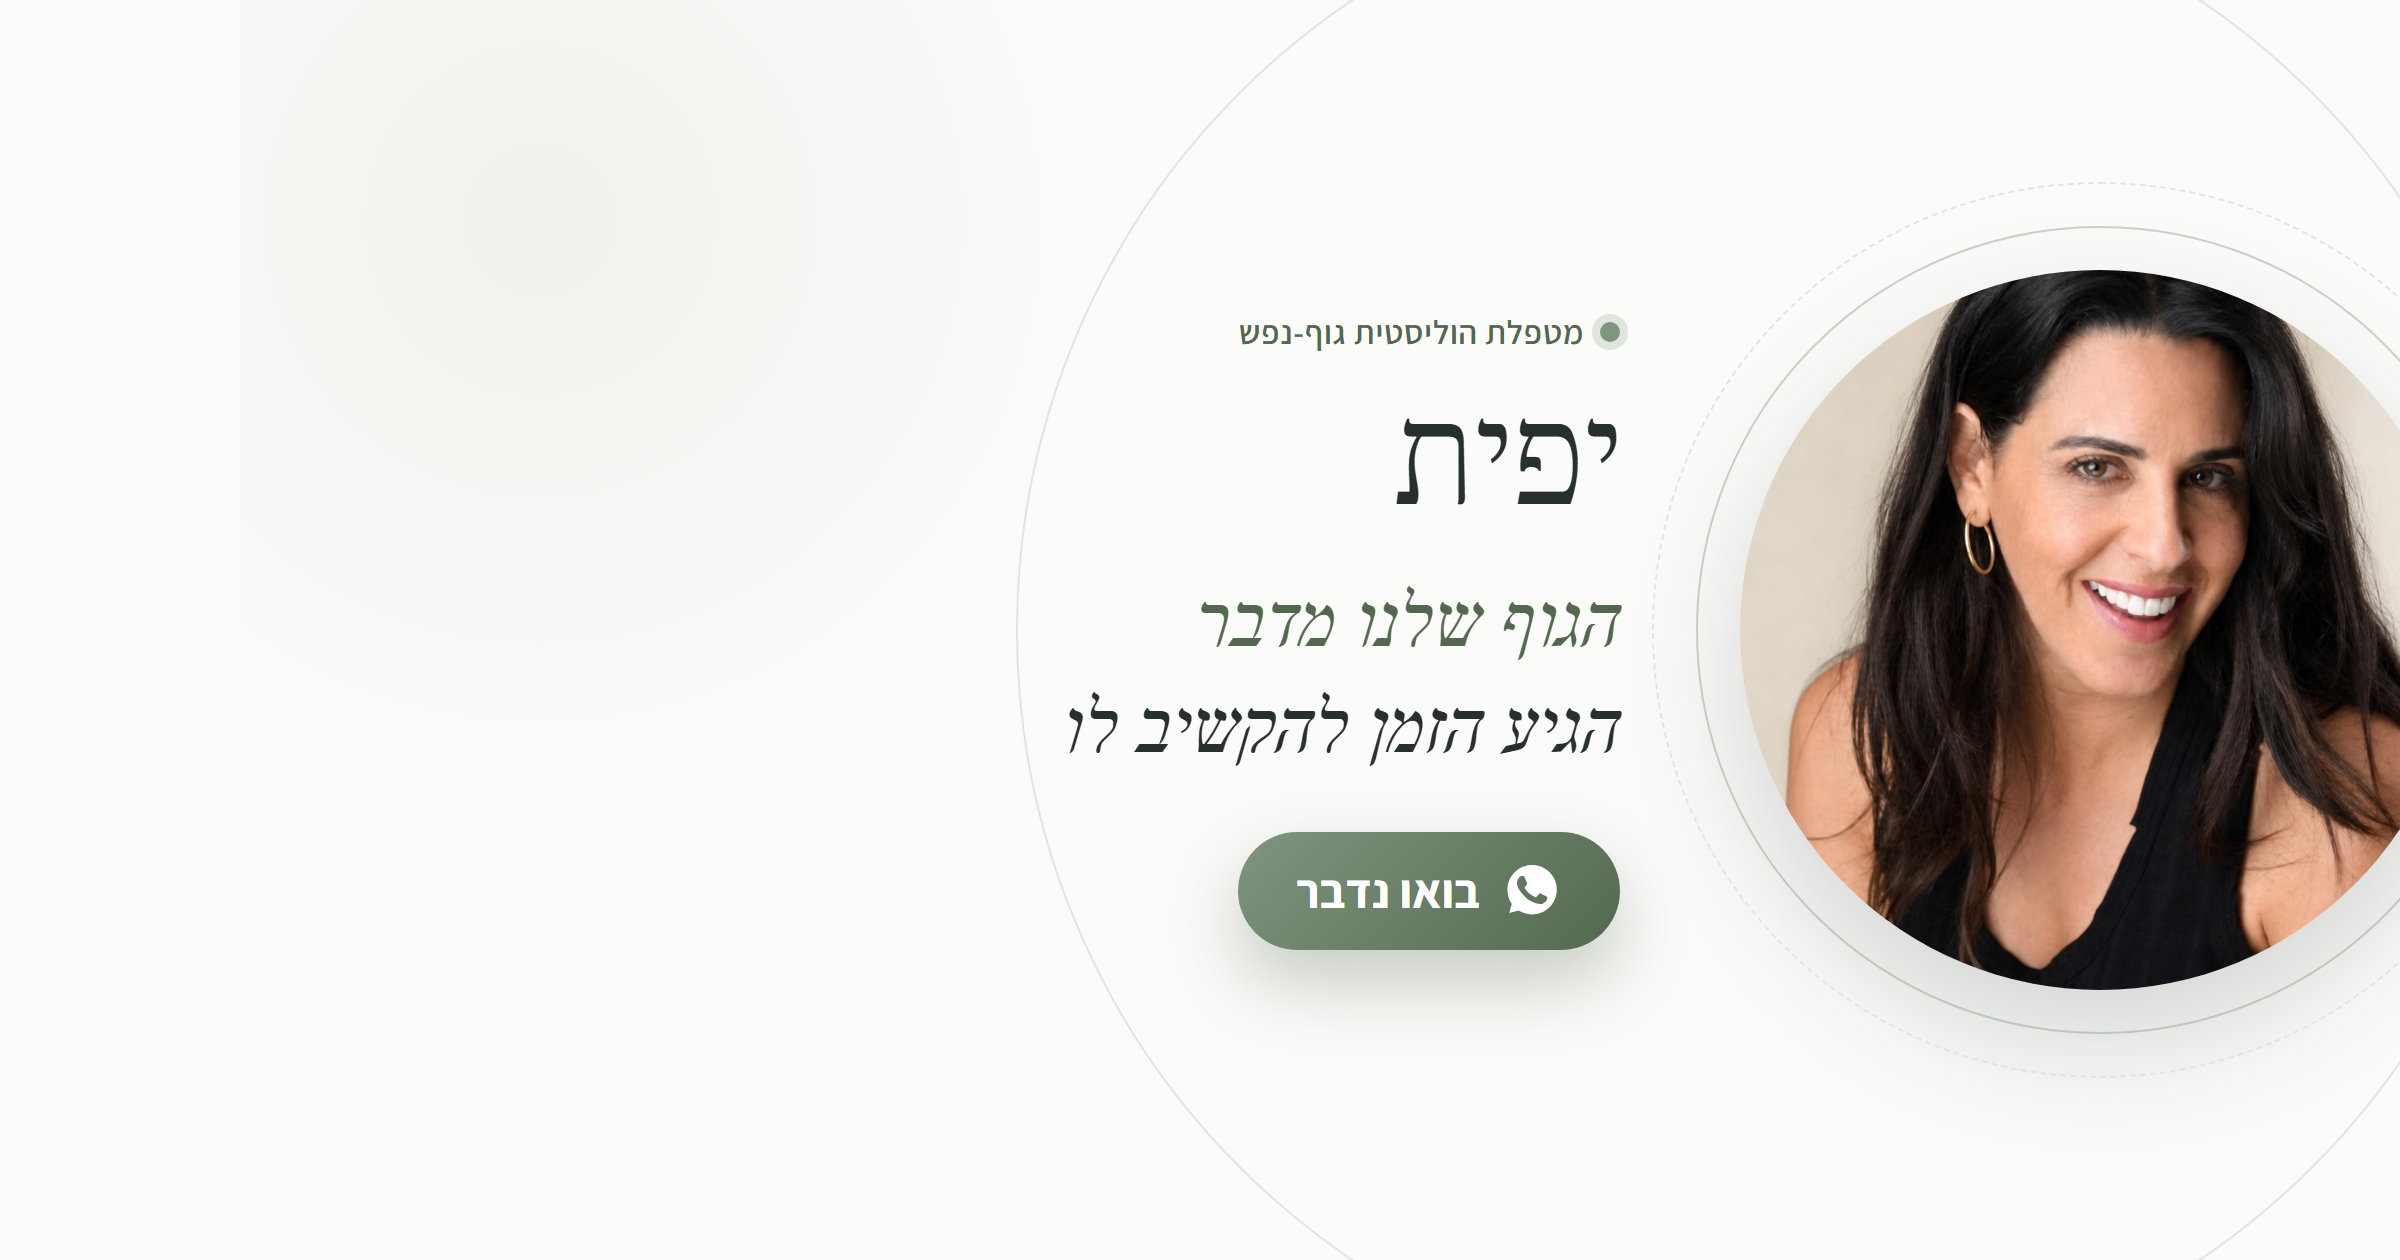
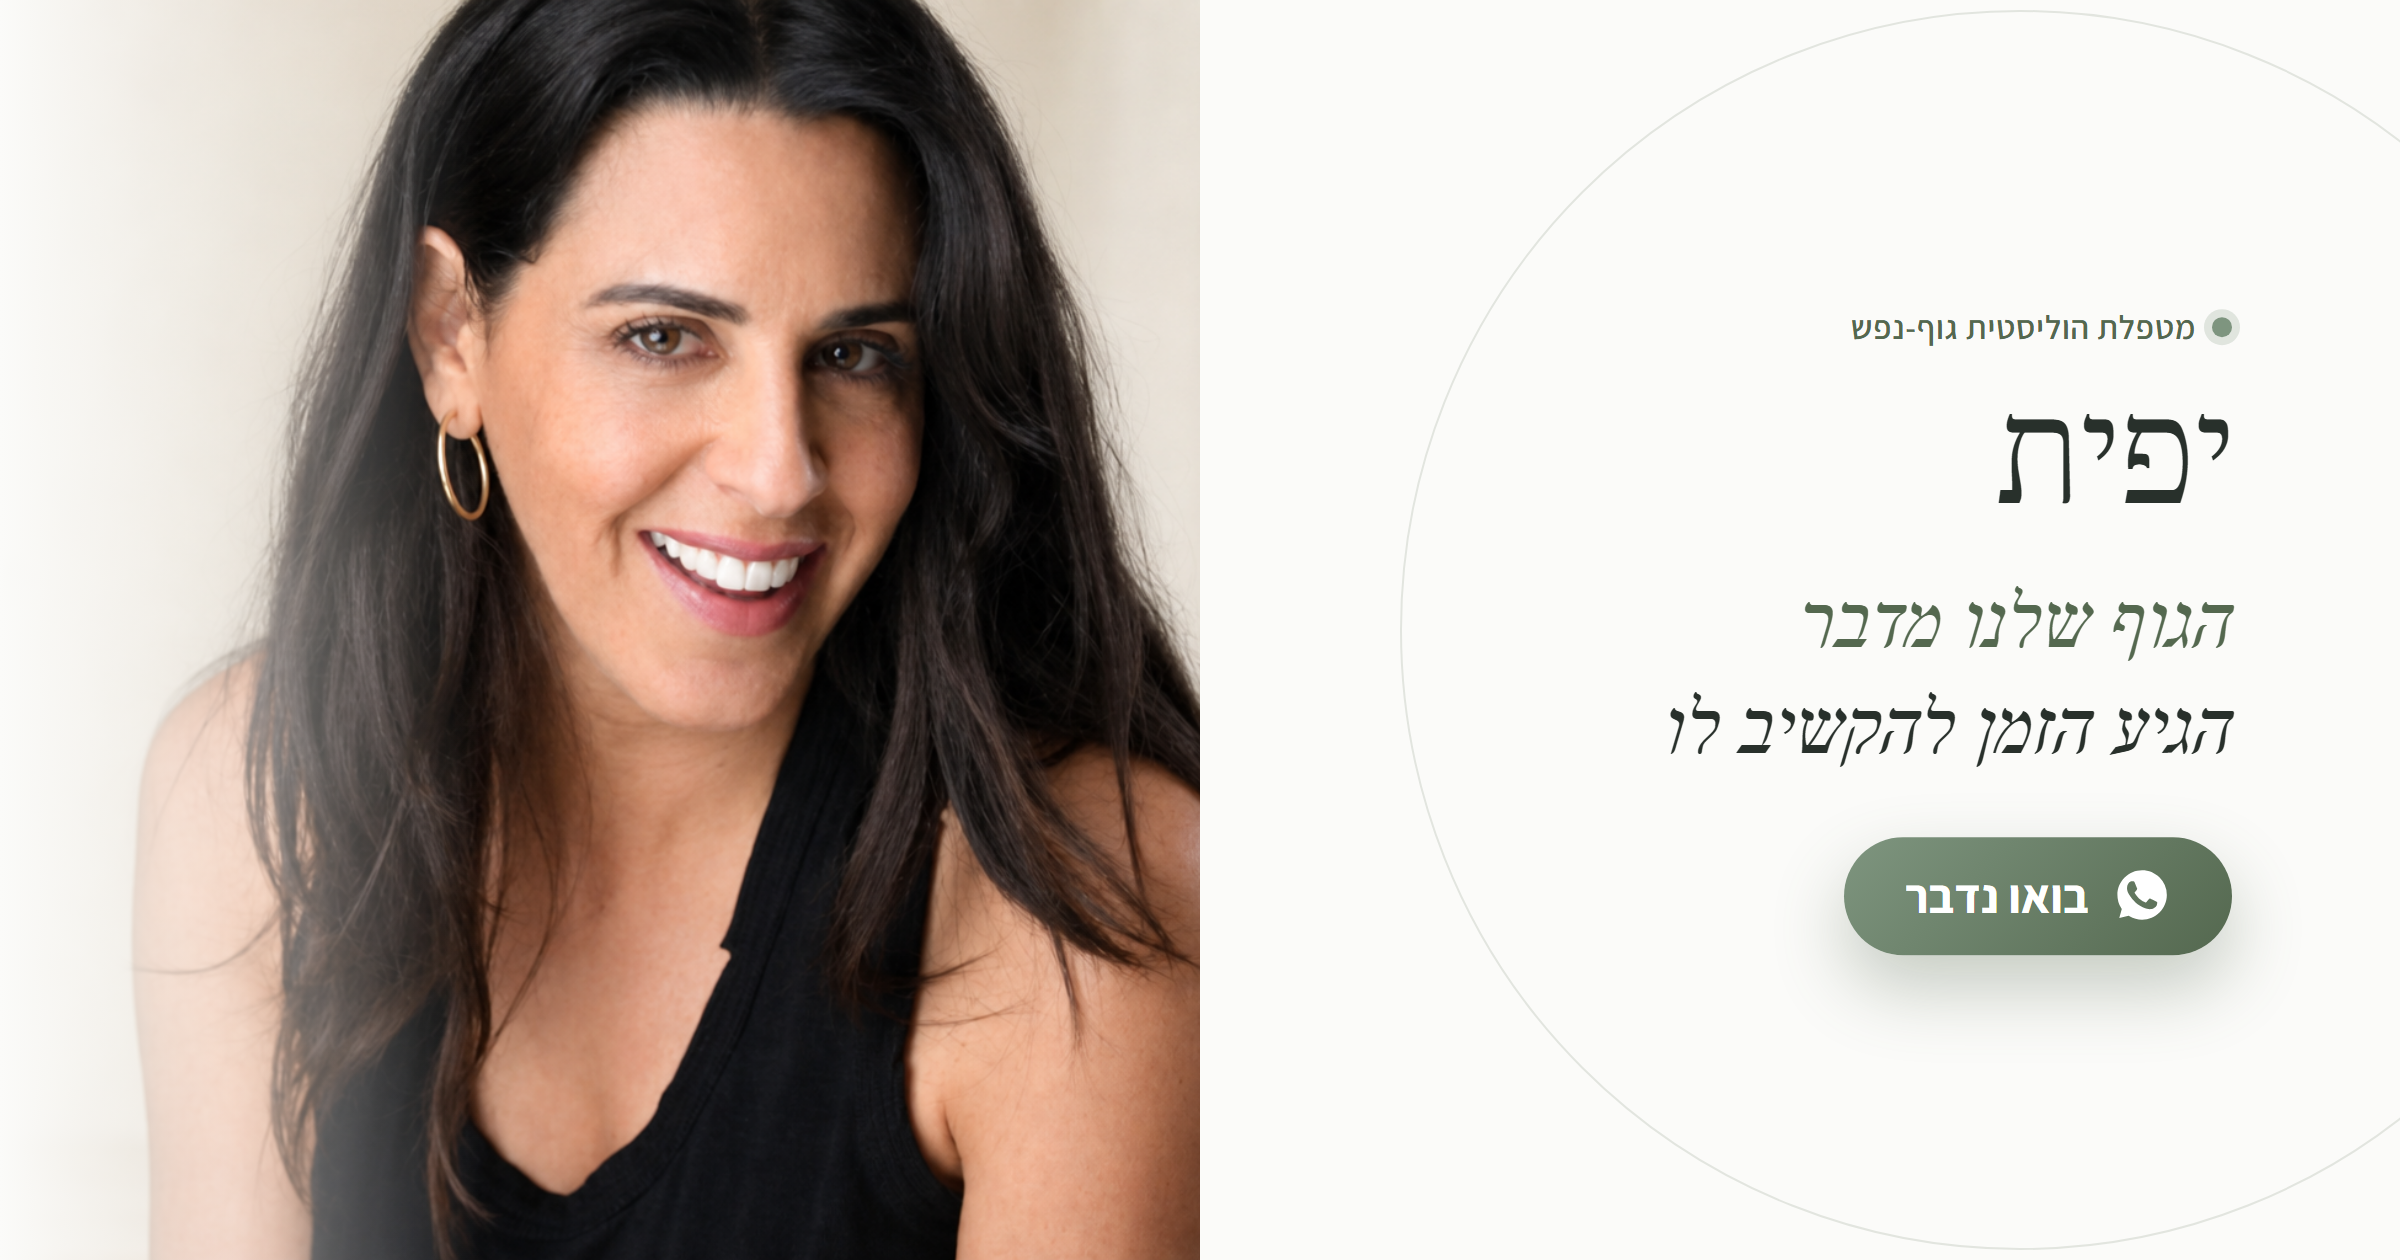
Redesign OG previews to feature the full airy portrait beside the text
- og.html / og-en.html: split layout with the full styled photo
  (yafit-3-airy.jpeg) full-bleed on one side, soft blend into the cream
  text side (name, slogan, WhatsApp pill)
- Re-rendered og-yafit.png / og-yaff.png at 1200x630

diff --git a/og-en.html b/og-en.html
@@ -27,68 +27,50 @@
       background: var(--bg);
       color: var(--ink);
       direction: rtl;
-      display: flex;
-      align-items: center;
-      justify-content: center;
       overflow: hidden;
       -webkit-font-smoothing: antialiased;
       position: relative;
     }
-    /* faint horizon motif (same language as the card) */
+
+    /* ---- beautiful full photo on the right ---- */
+    .photo-bleed {
+      position: absolute;
+      top: 0; left: 0;
+      width: 600px; height: 630px;
+      overflow: hidden;
+    }
+    .photo-bleed img {
+      width: 100%; height: 100%;
+      object-fit: cover;
+      object-position: 60% 28%;
+    }
+    /* soft blend from the cream side into the photo */
+    .photo-bleed::after {
+      content: '';
+      position: absolute; inset: 0;
+      background: linear-gradient(to left, transparent 60%, rgba(251,251,249,0.65) 86%, var(--bg) 100%);
+    }
+
+    /* faint horizon motif on the text side */
     body::before {
       content: '';
       position: absolute;
-      width: 760px; height: 760px;
+      width: 620px; height: 620px;
       border-radius: 50%;
       border: 1px solid var(--line);
-      top: 50%; left: 64%;
-      transform: translate(-50%, -50%);
+      top: 50%; right: -120px;
+      transform: translateY(-50%);
     }
-    body::after {
-      content: '';
+
+    /* ---- text block on the right side (RTL) ---- */
+    .text {
       position: absolute;
-      width: 540px; height: 540px;
-      border-radius: 50%;
-      background: radial-gradient(circle, var(--mist), transparent 70%);
-      top: -160px; left: -120px;
+      top: 50%; right: 84px;
+      transform: translateY(-50%);
+      width: 520px;
+      text-align: right;
+      z-index: 2;
     }
-
-    .stage {
-      position: relative;
-      z-index: 1;
-      display: flex;
-      align-items: center;
-      justify-content: center;
-      gap: 60px;
-      padding: 0 90px;
-      width: 100%;
-    }
-
-    /* photo */
-    .photo-wrap { position: relative; width: 360px; height: 360px; flex-shrink: 0; }
-    .photo-wrap::before {
-      content: '';
-      position: absolute; inset: -22px;
-      border-radius: 50%;
-      border: 1.5px solid var(--sage);
-      opacity: 0.4;
-    }
-    .photo-wrap::after {
-      content: '';
-      position: absolute; inset: -44px;
-      border-radius: 50%;
-      border: 1.5px dashed var(--line);
-    }
-    .photo {
-      width: 100%; height: 100%;
-      border-radius: 50%;
-      overflow: hidden;
-      box-shadow: 0 26px 60px rgba(40,48,43,0.18);
-    }
-    .photo img { width: 100%; height: 100%; object-fit: cover; object-position: center; }
-
-    .text { width: 600px; text-align: right; }
-
     .eyebrow {
       display: inline-flex; align-items: center; gap: 0.5rem;
       font-size: 1.05rem; font-weight: 600;
@@ -101,7 +83,7 @@
     h1 {
       font-family: var(--f-display);
       font-weight: 300;
-      font-size: 4.6rem;
+      font-size: 4.8rem;
       line-height: 1;
       letter-spacing: -0.01em;
       margin-bottom: 1.1rem;
@@ -112,10 +94,10 @@
     .tagline {
       font-family: var(--f-deco);
       font-style: italic;
-      font-size: 2.5rem;
-      line-height: 1.32;
+      font-size: 2.55rem;
+      line-height: 1.3;
       color: var(--sage-dk);
-      margin-bottom: 1.6rem;
+      margin-bottom: 1.7rem;
     }
     .tagline em { font-style: italic; color: var(--ink); }
 
@@ -125,26 +107,25 @@
       color: #fff;
       font-size: 1.5rem; font-weight: 700;
       border-radius: 100px;
-      padding: 0.85rem 1.8rem;
+      padding: 0.85rem 1.9rem;
       box-shadow: 0 16px 36px rgba(84,104,79,0.32);
     }
     .pill svg { width: 30px; height: 30px; }
   </style>
 </head>
 <body>
-  <div class="stage">
-    <div class="photo-wrap">
-      <div class="photo"><img src="assets/images/styled/yafit-3-circle.jpeg" alt="יפית" /></div>
-    </div>
-    <div class="text">
-      <span class="eyebrow"><span class="dot"></span>מטפלת הוליסטית גוף-נפש</span>
-      <h1 dir="ltr" class="wordmark">Yaff</h1>
-      <p class="tagline">הגוף שלנו מדבר<br /><em>הגיע הזמן להקשיב לו</em></p>
-      <span class="pill">
-        <svg viewBox="0 0 24 24" fill="currentColor"><path d="M17.472 14.382c-.297-.149-1.758-.867-2.03-.967-.273-.099-.471-.148-.67.15-.197.297-.767.966-.94 1.164-.173.199-.347.223-.644.075-.297-.15-1.255-.463-2.39-1.475-.883-.788-1.48-1.761-1.653-2.059-.173-.297-.018-.458.13-.606.134-.133.298-.347.446-.52.149-.174.198-.298.298-.497.099-.198.05-.371-.025-.52-.075-.149-.669-1.612-.916-2.207-.242-.579-.487-.5-.669-.51-.173-.008-.371-.01-.57-.01-.198 0-.52.074-.792.372-.272.297-1.04 1.016-1.04 2.479 0 1.462 1.065 2.875 1.213 3.074.149.198 2.096 3.2 5.077 4.487.709.306 1.262.489 1.694.625.712.227 1.36.195 1.871.118.571-.085 1.758-.719 2.006-1.413.248-.694.248-1.289.173-1.413-.074-.124-.272-.198-.57-.347m-5.421 7.403h-.004a9.87 9.87 0 01-5.031-1.378l-.361-.214-3.741.982.998-3.648-.235-.374a9.86 9.86 0 01-1.51-5.26c.001-5.45 4.436-9.884 9.888-9.884 2.64 0 5.122 1.03 6.988 2.898a9.825 9.825 0 012.893 6.994c-.003 5.45-4.437 9.884-9.885 9.884"/></svg>
-        בואו נדבר
-      </span>
-    </div>
+  <div class="photo-bleed">
+    <img src="assets/images/styled/yafit-3-airy.jpeg" alt="יפית" />
+  </div>
+
+  <div class="text">
+    <span class="eyebrow"><span class="dot"></span>מטפלת הוליסטית גוף-נפש</span>
+    <h1 dir="ltr" class="wordmark">Yaff</h1>
+    <p class="tagline">הגוף שלנו מדבר<br /><em>הגיע הזמן להקשיב לו</em></p>
+    <span class="pill">
+      <svg viewBox="0 0 24 24" fill="currentColor"><path d="M17.472 14.382c-.297-.149-1.758-.867-2.03-.967-.273-.099-.471-.148-.67.15-.197.297-.767.966-.94 1.164-.173.199-.347.223-.644.075-.297-.15-1.255-.463-2.39-1.475-.883-.788-1.48-1.761-1.653-2.059-.173-.297-.018-.458.13-.606.134-.133.298-.347.446-.52.149-.174.198-.298.298-.497.099-.198.05-.371-.025-.52-.075-.149-.669-1.612-.916-2.207-.242-.579-.487-.5-.669-.51-.173-.008-.371-.01-.57-.01-.198 0-.52.074-.792.372-.272.297-1.04 1.016-1.04 2.479 0 1.462 1.065 2.875 1.213 3.074.149.198 2.096 3.2 5.077 4.487.709.306 1.262.489 1.694.625.712.227 1.36.195 1.871.118.571-.085 1.758-.719 2.006-1.413.248-.694.248-1.289.173-1.413-.074-.124-.272-.198-.57-.347m-5.421 7.403h-.004a9.87 9.87 0 01-5.031-1.378l-.361-.214-3.741.982.998-3.648-.235-.374a9.86 9.86 0 01-1.51-5.26c.001-5.45 4.436-9.884 9.888-9.884 2.64 0 5.122 1.03 6.988 2.898a9.825 9.825 0 012.893 6.994c-.003 5.45-4.437 9.884-9.885 9.884"/></svg>
+      בואו נדבר
+    </span>
   </div>
 </body>
 </html>

diff --git a/og.html b/og.html
@@ -27,68 +27,50 @@
       background: var(--bg);
       color: var(--ink);
       direction: rtl;
-      display: flex;
-      align-items: center;
-      justify-content: center;
       overflow: hidden;
       -webkit-font-smoothing: antialiased;
       position: relative;
     }
-    /* faint horizon motif (same language as the card) */
+
+    /* ---- beautiful full photo on the right ---- */
+    .photo-bleed {
+      position: absolute;
+      top: 0; left: 0;
+      width: 600px; height: 630px;
+      overflow: hidden;
+    }
+    .photo-bleed img {
+      width: 100%; height: 100%;
+      object-fit: cover;
+      object-position: 60% 28%;
+    }
+    /* soft blend from the cream side into the photo */
+    .photo-bleed::after {
+      content: '';
+      position: absolute; inset: 0;
+      background: linear-gradient(to left, transparent 60%, rgba(251,251,249,0.65) 86%, var(--bg) 100%);
+    }
+
+    /* faint horizon motif on the text side */
     body::before {
       content: '';
       position: absolute;
-      width: 760px; height: 760px;
+      width: 620px; height: 620px;
       border-radius: 50%;
       border: 1px solid var(--line);
-      top: 50%; left: 64%;
-      transform: translate(-50%, -50%);
+      top: 50%; right: -120px;
+      transform: translateY(-50%);
     }
-    body::after {
-      content: '';
+
+    /* ---- text block on the right side (RTL) ---- */
+    .text {
       position: absolute;
-      width: 540px; height: 540px;
-      border-radius: 50%;
-      background: radial-gradient(circle, var(--mist), transparent 70%);
-      top: -160px; left: -120px;
+      top: 50%; right: 84px;
+      transform: translateY(-50%);
+      width: 520px;
+      text-align: right;
+      z-index: 2;
     }
-
-    .stage {
-      position: relative;
-      z-index: 1;
-      display: flex;
-      align-items: center;
-      justify-content: center;
-      gap: 60px;
-      padding: 0 90px;
-      width: 100%;
-    }
-
-    /* photo */
-    .photo-wrap { position: relative; width: 360px; height: 360px; flex-shrink: 0; }
-    .photo-wrap::before {
-      content: '';
-      position: absolute; inset: -22px;
-      border-radius: 50%;
-      border: 1.5px solid var(--sage);
-      opacity: 0.4;
-    }
-    .photo-wrap::after {
-      content: '';
-      position: absolute; inset: -44px;
-      border-radius: 50%;
-      border: 1.5px dashed var(--line);
-    }
-    .photo {
-      width: 100%; height: 100%;
-      border-radius: 50%;
-      overflow: hidden;
-      box-shadow: 0 26px 60px rgba(40,48,43,0.18);
-    }
-    .photo img { width: 100%; height: 100%; object-fit: cover; object-position: center; }
-
-    .text { width: 600px; text-align: right; }
-
     .eyebrow {
       display: inline-flex; align-items: center; gap: 0.5rem;
       font-size: 1.05rem; font-weight: 600;
@@ -101,7 +83,7 @@
     h1 {
       font-family: var(--f-display);
       font-weight: 300;
-      font-size: 4.6rem;
+      font-size: 4.8rem;
       line-height: 1;
       letter-spacing: -0.01em;
       margin-bottom: 1.1rem;
@@ -112,10 +94,10 @@
     .tagline {
       font-family: var(--f-deco);
       font-style: italic;
-      font-size: 2.5rem;
-      line-height: 1.32;
+      font-size: 2.55rem;
+      line-height: 1.3;
       color: var(--sage-dk);
-      margin-bottom: 1.6rem;
+      margin-bottom: 1.7rem;
     }
     .tagline em { font-style: italic; color: var(--ink); }
 
@@ -125,26 +107,25 @@
       color: #fff;
       font-size: 1.5rem; font-weight: 700;
       border-radius: 100px;
-      padding: 0.85rem 1.8rem;
+      padding: 0.85rem 1.9rem;
       box-shadow: 0 16px 36px rgba(84,104,79,0.32);
     }
     .pill svg { width: 30px; height: 30px; }
   </style>
 </head>
 <body>
-  <div class="stage">
-    <div class="photo-wrap">
-      <div class="photo"><img src="assets/images/styled/yafit-3-circle.jpeg" alt="יפית" /></div>
-    </div>
-    <div class="text">
-      <span class="eyebrow"><span class="dot"></span>מטפלת הוליסטית גוף-נפש</span>
-      <h1>יפית</h1>
-      <p class="tagline">הגוף שלנו מדבר<br /><em>הגיע הזמן להקשיב לו</em></p>
-      <span class="pill">
-        <svg viewBox="0 0 24 24" fill="currentColor"><path d="M17.472 14.382c-.297-.149-1.758-.867-2.03-.967-.273-.099-.471-.148-.67.15-.197.297-.767.966-.94 1.164-.173.199-.347.223-.644.075-.297-.15-1.255-.463-2.39-1.475-.883-.788-1.48-1.761-1.653-2.059-.173-.297-.018-.458.13-.606.134-.133.298-.347.446-.52.149-.174.198-.298.298-.497.099-.198.05-.371-.025-.52-.075-.149-.669-1.612-.916-2.207-.242-.579-.487-.5-.669-.51-.173-.008-.371-.01-.57-.01-.198 0-.52.074-.792.372-.272.297-1.04 1.016-1.04 2.479 0 1.462 1.065 2.875 1.213 3.074.149.198 2.096 3.2 5.077 4.487.709.306 1.262.489 1.694.625.712.227 1.36.195 1.871.118.571-.085 1.758-.719 2.006-1.413.248-.694.248-1.289.173-1.413-.074-.124-.272-.198-.57-.347m-5.421 7.403h-.004a9.87 9.87 0 01-5.031-1.378l-.361-.214-3.741.982.998-3.648-.235-.374a9.86 9.86 0 01-1.51-5.26c.001-5.45 4.436-9.884 9.888-9.884 2.64 0 5.122 1.03 6.988 2.898a9.825 9.825 0 012.893 6.994c-.003 5.45-4.437 9.884-9.885 9.884"/></svg>
-        בואו נדבר
-      </span>
-    </div>
+  <div class="photo-bleed">
+    <img src="assets/images/styled/yafit-3-airy.jpeg" alt="יפית" />
+  </div>
+
+  <div class="text">
+    <span class="eyebrow"><span class="dot"></span>מטפלת הוליסטית גוף-נפש</span>
+    <h1>יפית</h1>
+    <p class="tagline">הגוף שלנו מדבר<br /><em>הגיע הזמן להקשיב לו</em></p>
+    <span class="pill">
+      <svg viewBox="0 0 24 24" fill="currentColor"><path d="M17.472 14.382c-.297-.149-1.758-.867-2.03-.967-.273-.099-.471-.148-.67.15-.197.297-.767.966-.94 1.164-.173.199-.347.223-.644.075-.297-.15-1.255-.463-2.39-1.475-.883-.788-1.48-1.761-1.653-2.059-.173-.297-.018-.458.13-.606.134-.133.298-.347.446-.52.149-.174.198-.298.298-.497.099-.198.05-.371-.025-.52-.075-.149-.669-1.612-.916-2.207-.242-.579-.487-.5-.669-.51-.173-.008-.371-.01-.57-.01-.198 0-.52.074-.792.372-.272.297-1.04 1.016-1.04 2.479 0 1.462 1.065 2.875 1.213 3.074.149.198 2.096 3.2 5.077 4.487.709.306 1.262.489 1.694.625.712.227 1.36.195 1.871.118.571-.085 1.758-.719 2.006-1.413.248-.694.248-1.289.173-1.413-.074-.124-.272-.198-.57-.347m-5.421 7.403h-.004a9.87 9.87 0 01-5.031-1.378l-.361-.214-3.741.982.998-3.648-.235-.374a9.86 9.86 0 01-1.51-5.26c.001-5.45 4.436-9.884 9.888-9.884 2.64 0 5.122 1.03 6.988 2.898a9.825 9.825 0 012.893 6.994c-.003 5.45-4.437 9.884-9.885 9.884"/></svg>
+      בואו נדבר
+    </span>
   </div>
 </body>
 </html>

diff --git a/.agents/business-card-log.md b/.agents/business-card-log.md
@@ -31,6 +31,17 @@
   - http://178.105.58.170:8077/card-b.html
   - http://178.105.58.170:8077/card-c.html
 
+## עדכוני 21.6.2026 — כרטיס D/E + פריסה חיה
+
+- **כרטיס D (`card-d.html`)** — שילוב שנבחר: עיצוב כרטיס C (אוורירי) + התמונה מהכרטיס המקורי (yafit-3) עם רקע חדש אוורירי שיוצר במקום הרקע השחור (`assets/images/styled/yafit-3-circle.jpeg`). סלוגן "הגוף שלנו מדבר / הגיע הזמן להקשיב לו". שיטות הטיפול כפסקה רכה (לא כפתורים, ללא NLP). CTA במרווה "בואו נדבר" (ללא המילה ווטסאפ, אייקון נשאר). שיחת היכרות "ללא התחייבות".
+- **כרטיס E (`card-e.html`)** — זהה ל-D, השם "Yaff" בלטינית (Frank Ruhl Libre, תואם לעברית).
+- **תמונת preview לשיתוף** — `og.html` / `og-en.html` → רונדרו ל-1200×630 (`assets/images/og-yafit.png`, `og-yaff.png`) דרך סקיל card-to-image. תגיות OG/Twitter מוחלטות בשני הכרטיסים.
+- **פריסה חיה (GitHub Pages, HTTPS):**
+  - https://mench-coder.github.io/yafit-holistic-therapist/card-d.html (יפית)
+  - https://mench-coder.github.io/yafit-holistic-therapist/card-e.html (Yaff)
+  - מקור: branch `master`, root `/`. עדכון = push → בנייה אוטומטית (~40 שניות).
+- שני השמות (יפית/Yaff) נשמרים בכוונה — הלקוח טרם בחר סופית.
+
 ## ⏳ פתוח
 
 - [x] **מספר ווטסאפ של יפית** — עודכן 12.6.2026 ל-`972547744141` (+972 54-774-4141) בכל הקבצים